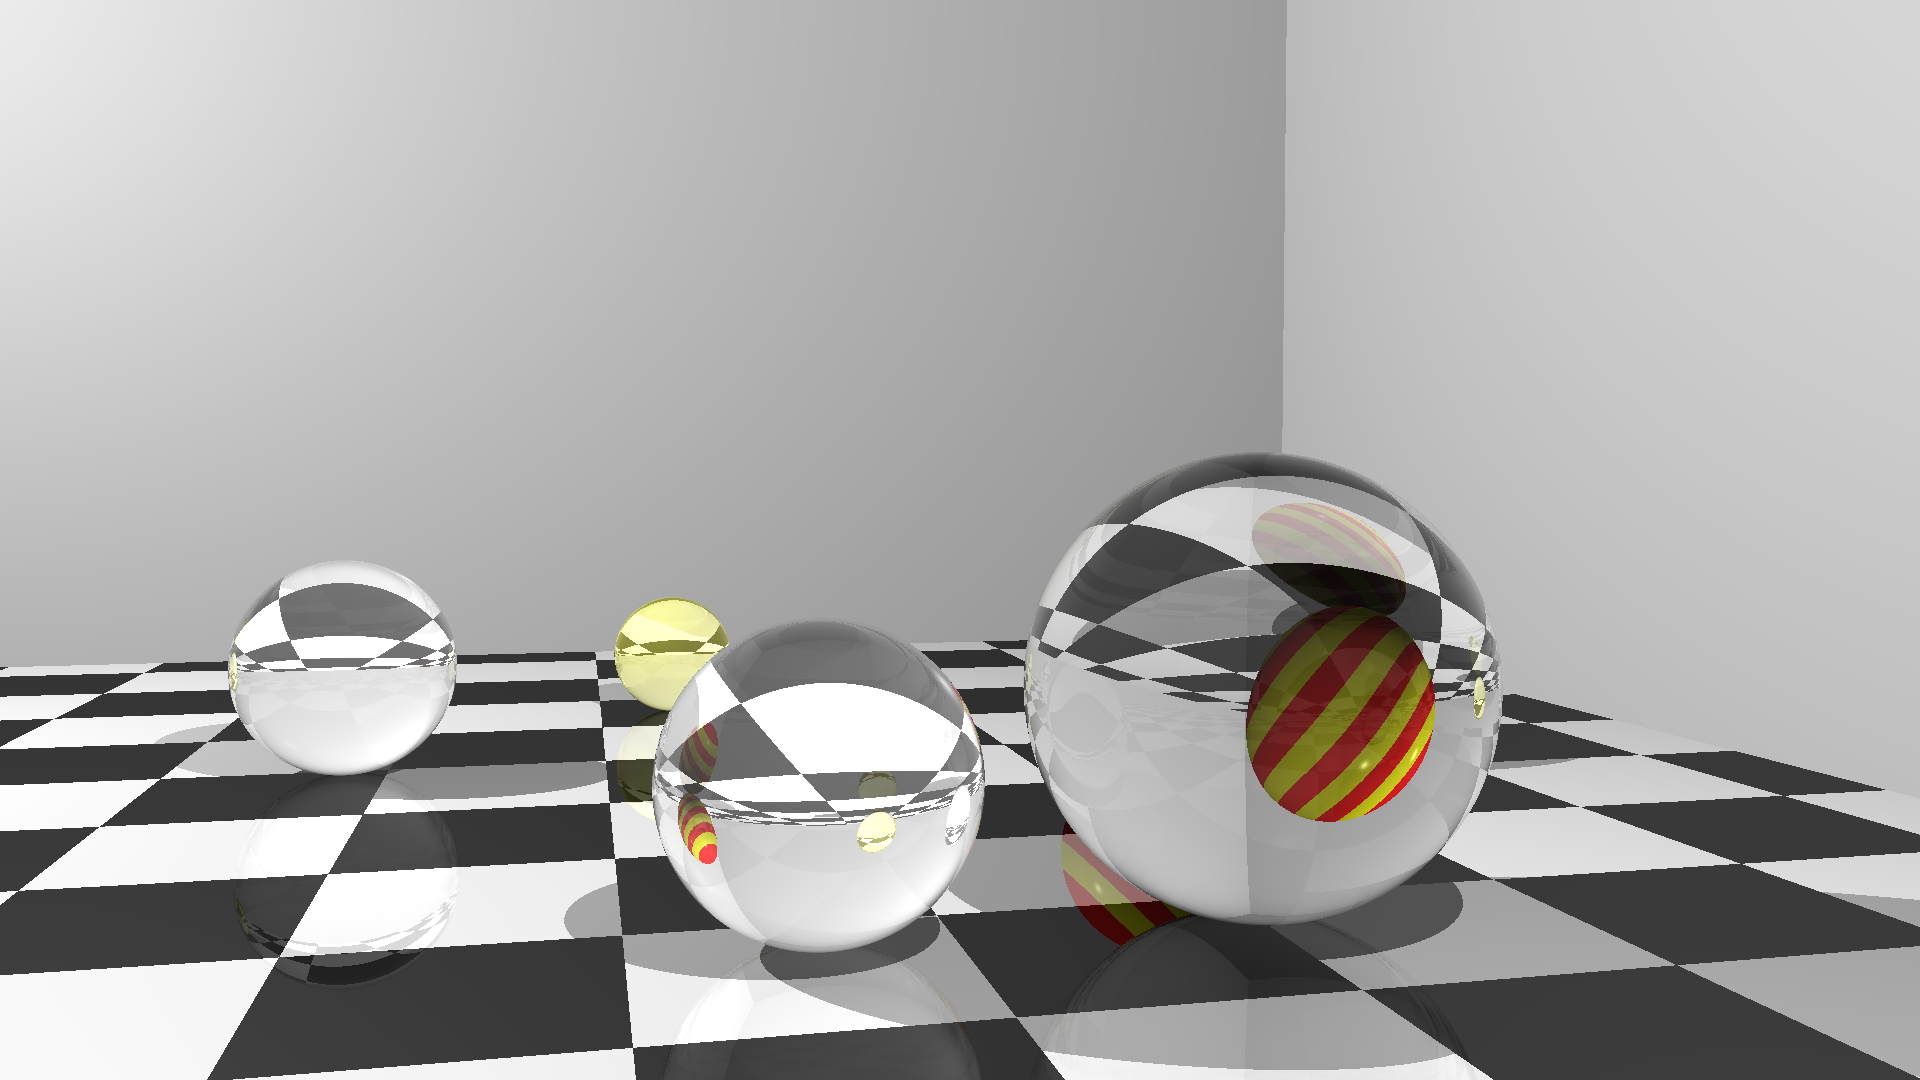
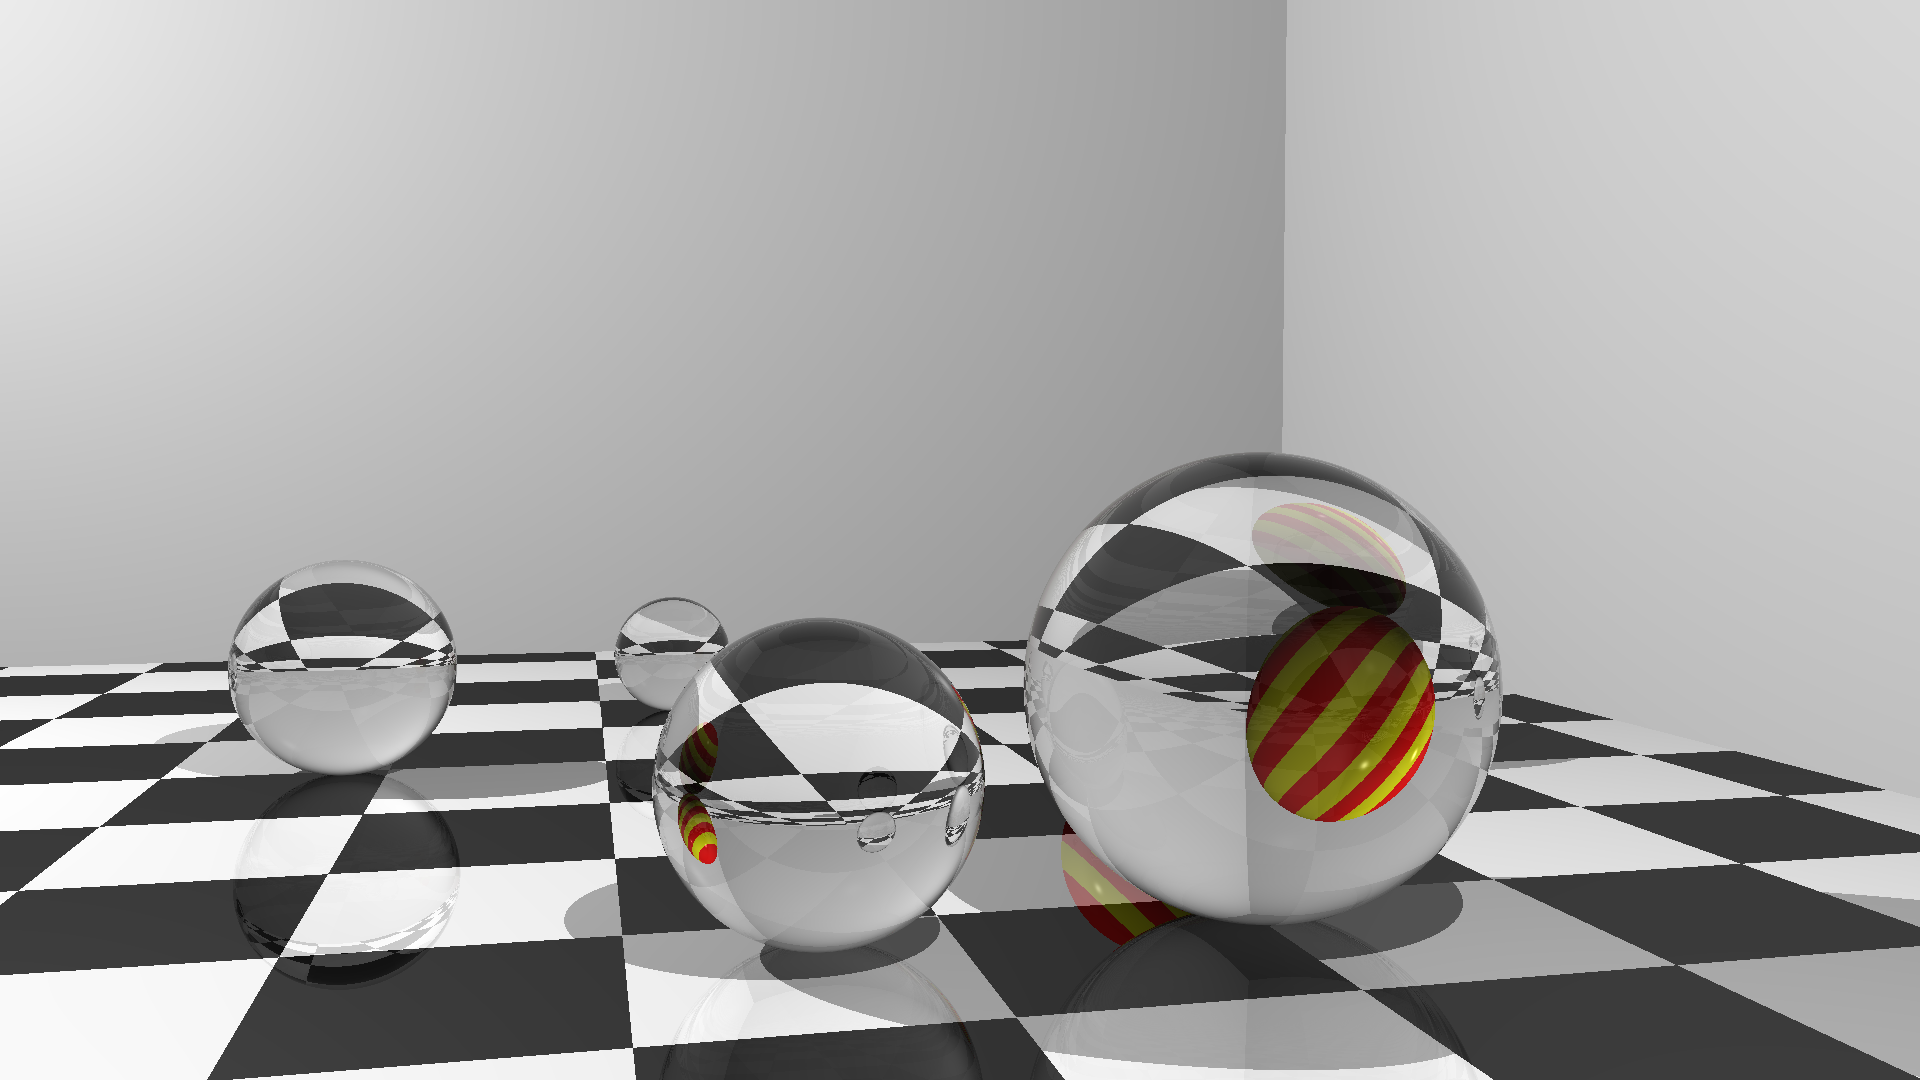
update example05

diff --git a/examples/example05.rs b/examples/example05.rs
@@ -56,38 +56,7 @@ fn main() {
         .with_rotation_y(PI/4.0)
         .with_translation(0.0, 0.0, 5.0);
 
-    let back_left_wall = Object::new(Shape::Plane(Plane::default()))
-        .with_material(wall_material.clone())
-        .with_rotation_x(PI/2.0)
-        .with_rotation_y(PI/4.0)
-        .with_translation(0.0, 0.0, -15.0);
-
-    let back_right_wall = Object::new(Shape::Plane(Plane::default()))
-        .with_material(wall_material.clone())
-        .with_rotation_x(PI/2.0)
-        .with_rotation_y(-PI/4.0)
-        .with_translation(0.0, 0.0, -15.0);
-
     let s1 = Object::new(Shape::Sphere(Sphere::default()))
-        .with_material(
-            Material::default()
-                .with_pattern(
-                    PatternObject::new(
-                        Pattern::Plain(
-                            PlainPattern::new(Color::black()))
-                    )
-                )
-                .with_diffuse(0.0)
-                .with_specular(0.0)
-                .with_ambient(0.0)
-                .with_reflective(1.0)
-                .with_transparency(1.0)
-                .with_refractive_index(1.5)
-        )
-        .with_scale(0.75, 0.75, 0.75)
-        .with_translation(3.0, 0.75, -3.0);
-
-    let s2 = Object::new(Shape::Sphere(Sphere::default()))
         .with_material(
             Material::default()
                 .with_pattern(
@@ -111,59 +80,44 @@ fn main() {
         .with_scale(0.5, 0.5, 0.5)
         .with_translation(1.5, 0.5, -0.5);
 
-    let s3 = Object::new(Shape::Sphere(Sphere::default()))
-        .with_material(
-            Material::default()
-                .with_pattern(
-                    PatternObject::new(
-                        Pattern::Plain(PlainPattern::new(Color::new(1.0, 1.0, 0.0)))
-                    )
-                )
-                .with_diffuse(0.2)
-                .with_specular(0.0)
-                .with_reflective(0.8)
-                .with_transparency(1.0)
-                .with_refractive_index(1.5)
+    let transparent_material = Material::default()
+        .with_pattern(
+            PatternObject::new(
+                Pattern::Plain(
+                    PlainPattern::new(Color::black()))
+            )
         )
+        .with_diffuse(0.0)
+        .with_specular(0.0)
+        .with_ambient(0.0)
+        .with_reflective(1.0)
+        .with_transparency(1.0)
+        .with_refractive_index(1.5);
+
+    let s2 = Object::new(Shape::Sphere(Sphere::default()))
+        .with_material(transparent_material.clone())
+        .with_scale(0.75, 0.75, 0.75)
+        .with_translation(3.0, 0.75, -3.0);
+
+    
+
+    let s3 = Object::new(Shape::Sphere(Sphere::default()))
+        .with_material(transparent_material.clone())
         .with_scale(0.33, 0.33, 0.33)
         .with_translation(-1.5, 0.33, -0.75);
 
     let s4 = Object::new(Shape::Sphere(Sphere::default()))
-        .with_material(
-            Material::default()
-                .with_pattern(
-                    PatternObject::new(
-                        Pattern::Plain(PlainPattern::new(Color::new(1.0, 1.0, 1.0)))
-                    )
-                )
-                .with_diffuse(0.0)
-                .with_specular(0.0)
-                .with_reflective(0.8)
-                .with_transparency(1.0)
-                .with_refractive_index(1.5)
-        )
+        .with_material(transparent_material.clone())
         .with_scale(0.5, 0.5, 0.5)
         .with_translation(-1.5, 0.5, -3.0);
 
     let s5 = Object::new(Shape::Sphere(Sphere::default()))
-        .with_material(
-            Material::default()
-                .with_pattern(
-                    PatternObject::new(
-                        Pattern::Plain(PlainPattern::new(Color::new(1.0, 1.0, 1.0)))
-                    )
-                )
-                .with_diffuse(0.0)
-                .with_specular(0.0)
-                .with_reflective(0.8)
-                .with_transparency(1.0)
-                .with_refractive_index(1.5)
-        )
+        .with_material(transparent_material.clone())
         .with_scale(0.5, 0.5, 0.5)
         .with_translation(2.0, 0.5, -4.0);
 
     let world = World::new()
-        .with_objects(vec![floor, roof, left_wall, right_wall, back_left_wall, back_right_wall, s1, s2, s3, s4, s5])
+        .with_objects(vec![floor, roof, left_wall, right_wall, s1, s2, s3, s4, s5])
         .with_lights(vec![l1, l2]);
 
     let width = if LOW_RES { 180 } else { 1920 };
